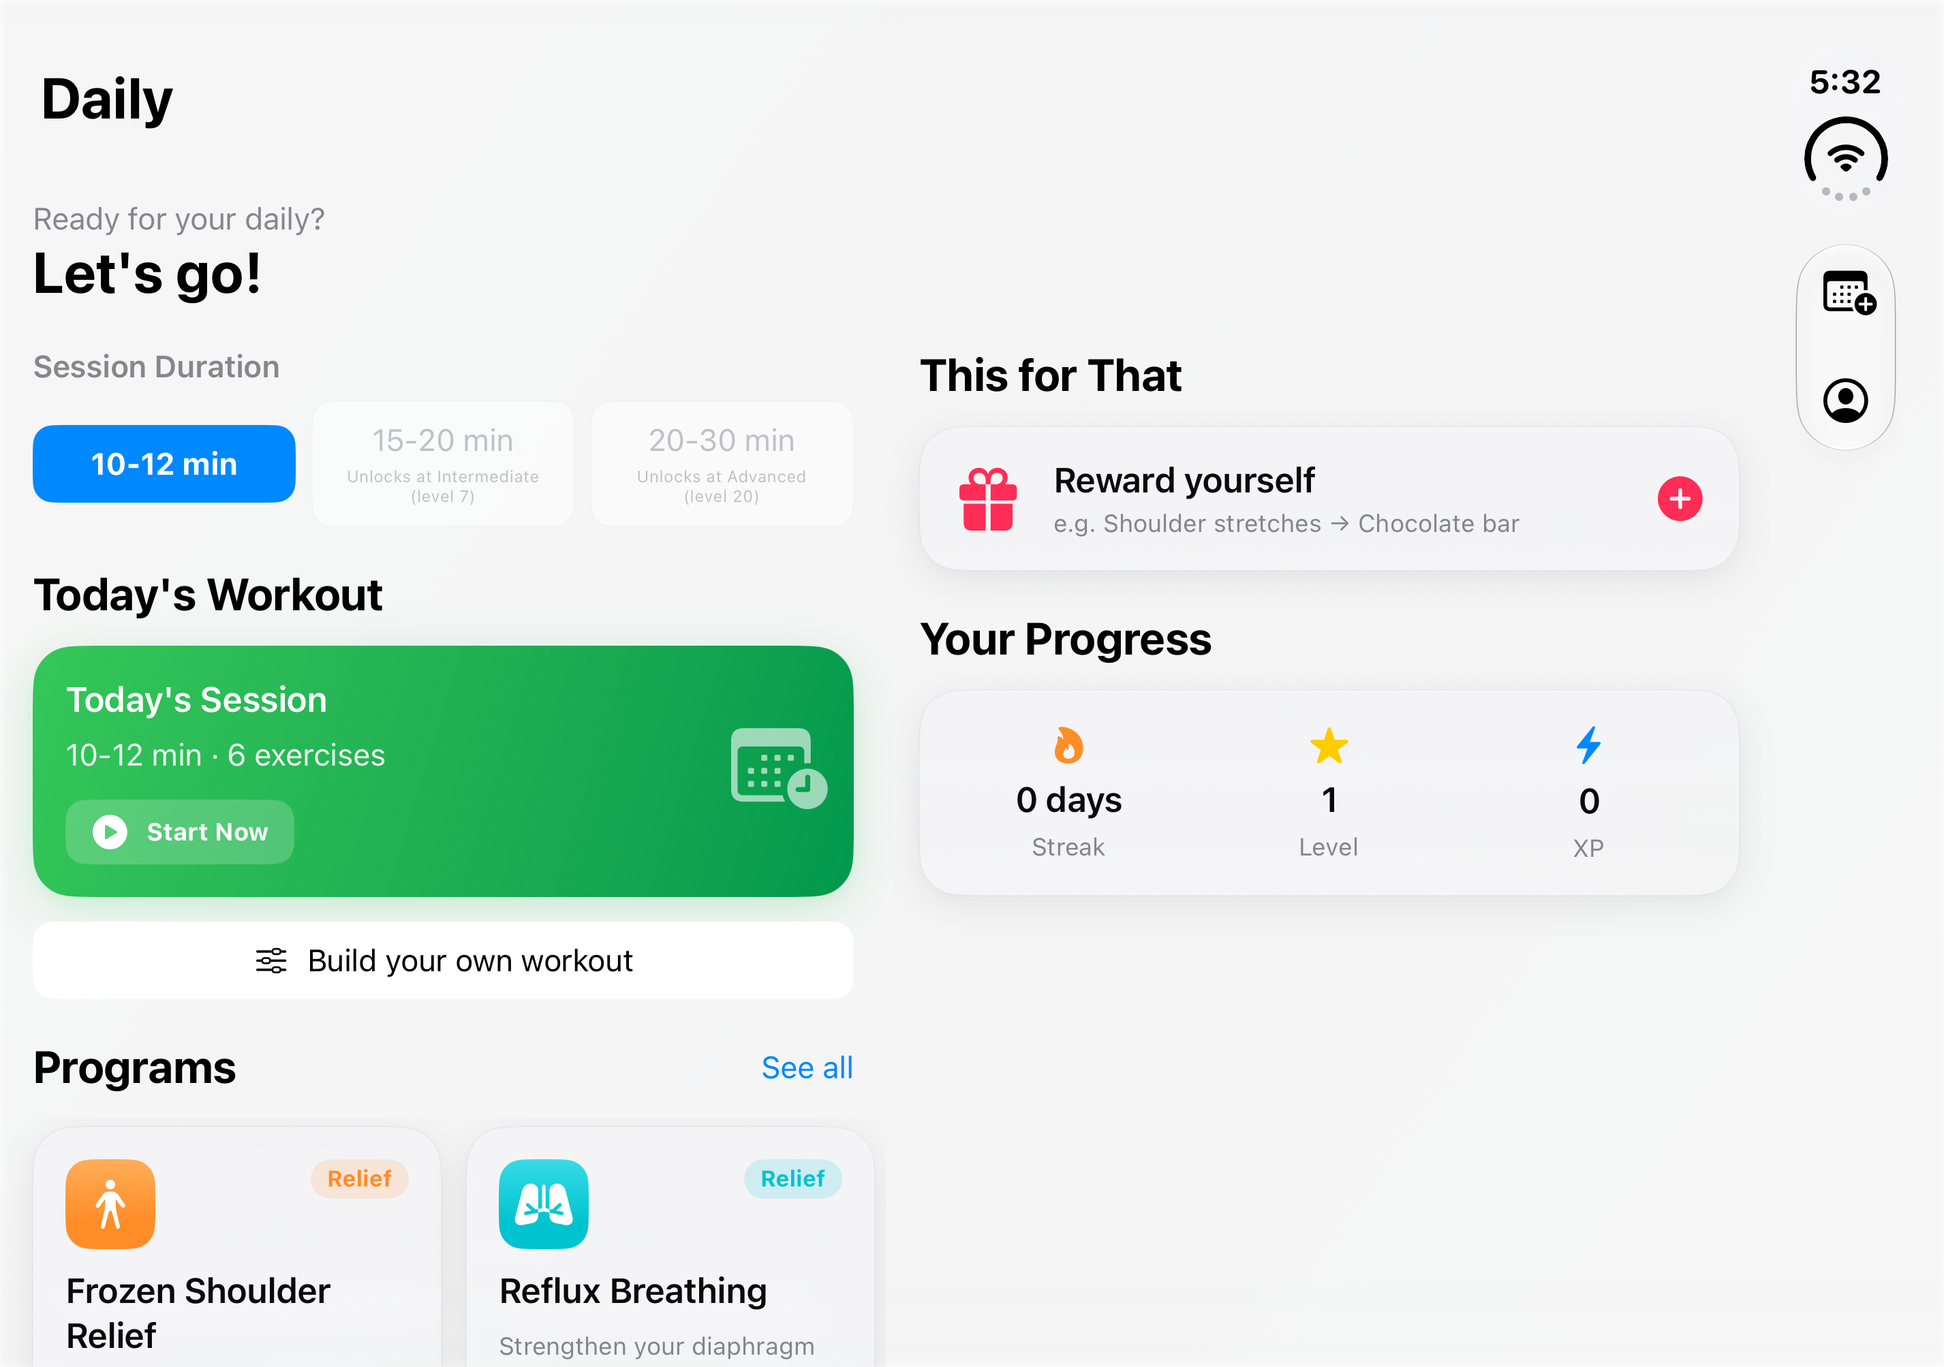
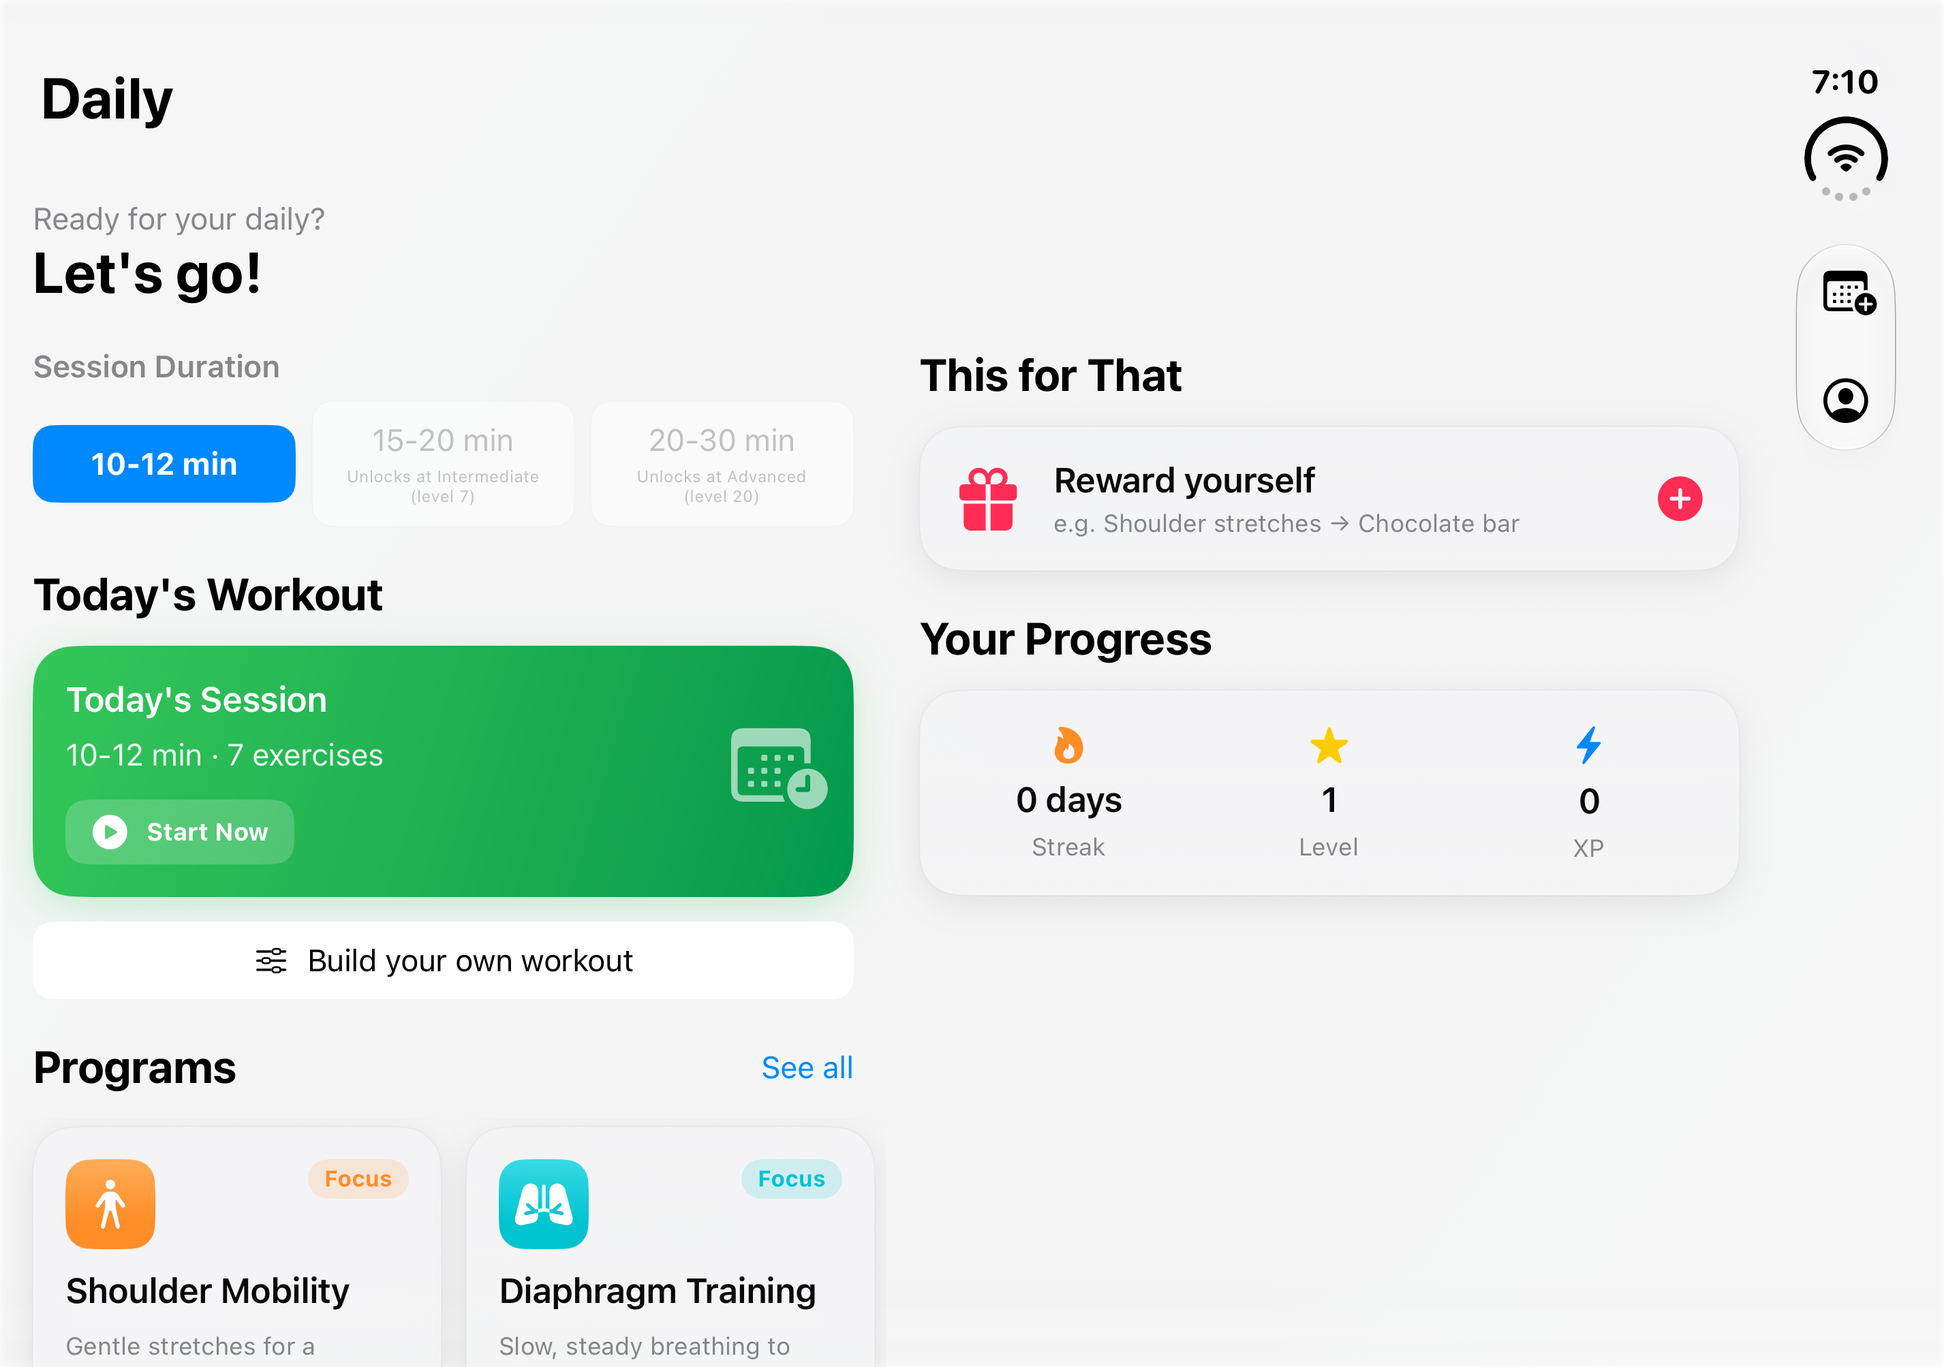
feat: add health disclaimer and soften focus program names
Shows a not-medical-advice notice on onboarding, on focus-area programs and in
Profile, and adds a Health & Safety section to the support page. Renames
Frozen Shoulder Relief, Reflux Breathing and Lower Back Relief to Shoulder
Mobility, Diaphragm Training and Lower Back Mobility (badge "Focus",
section "Focus areas"), drops condition names from their exercise
descriptions, and migrates existing installs and linked This for That pacts.
Refreshes the Duo screenshots.

diff --git a/daily/Models.swift b/daily/Models.swift
@@ -486,11 +486,37 @@ extension Exercise {
             context.insert(exercise)
         }
 
+        // 2b. Refresh focus-area exercise descriptions, which no longer name a condition
+        let focusDescriptions = Dictionary(
+            (frozenShoulderExercises() + refluxBreathingExercises()).map { ($0.name, $0.exerciseDescription) },
+            uniquingKeysWith: { first, _ in first }
+        )
+        for exercise in exercises {
+            if let description = focusDescriptions[exercise.name] { exercise.exerciseDescription = description }
+        }
+
         // 3. Apply contraindications to all exercises (idempotent — safe to re-run)
         let allExercises = exercises + newExercises.filter { !existingNames.contains($0.name) }
         applyContraindications(to: allExercises)
 
-        // 4. Insert new routines that don't already exist (checked by name)
+        // 4. Rename programs whose names were softened; pacts link to programs by name
+        if let existingRoutines = try? context.fetch(FetchDescriptor<Routine>()) {
+            let seeded = routines()
+            for routine in existingRoutines {
+                guard let newName = Routine.renamedPrograms[routine.name] else { continue }
+                routine.name = newName
+                if let description = seeded.first(where: { $0.name == newName })?.routineDescription {
+                    routine.routineDescription = description
+                }
+            }
+        }
+        if let pacts = try? context.fetch(FetchDescriptor<ThisForThat>()) {
+            for pact in pacts {
+                if let newName = Routine.renamedPrograms[pact.thisAction] { pact.thisAction = newName }
+            }
+        }
+
+        // 5. Insert new routines that don't already exist (checked by name)
         if let existingRoutines = try? context.fetch(FetchDescriptor<Routine>()) {
             let existingRoutineNames = Set(existingRoutines.map { $0.name })
             for routine in routines() where !existingRoutineNames.contains(routine.name) {
@@ -678,7 +704,7 @@ extension Exercise {
         [
             Exercise(
                 name: "Pendulum Swing",
-                exerciseDescription: "Frozen shoulder: gentle, gravity-assisted loosening.",
+                exerciseDescription: "Gentle, gravity-assisted loosening.",
                 durationSeconds: 90,
                 category: .stretching,
                 instructions: [
@@ -705,7 +731,7 @@ extension Exercise {
             ),
             Exercise(
                 name: "Finger Wall Walk",
-                exerciseDescription: "Frozen shoulder: rebuild overhead reach.",
+                exerciseDescription: "Rebuild overhead reach.",
                 durationSeconds: 90,
                 category: .stretching,
                 instructions: [
@@ -735,7 +761,7 @@ extension Exercise {
             ),
             Exercise(
                 name: "Cross-Body Arm Stretch",
-                exerciseDescription: "Frozen shoulder: ease tightness at the back of the shoulder.",
+                exerciseDescription: "Ease tightness at the back of the shoulder.",
                 durationSeconds: 60,
                 category: .stretching,
                 instructions: [
@@ -761,7 +787,7 @@ extension Exercise {
             ),
             Exercise(
                 name: "Towel Stretch",
-                exerciseDescription: "Frozen shoulder: improve reach behind your back.",
+                exerciseDescription: "Improve reach behind your back.",
                 durationSeconds: 90,
                 category: .stretching,
                 instructions: [
@@ -790,7 +816,7 @@ extension Exercise {
             ),
             Exercise(
                 name: "Outward Rotation Stretch",
-                exerciseDescription: "Frozen shoulder: restore outward turning of the arm.",
+                exerciseDescription: "Restore outward turning of the arm.",
                 durationSeconds: 60,
                 category: .stretching,
                 instructions: [
@@ -816,7 +842,7 @@ extension Exercise {
             ),
             Exercise(
                 name: "Armpit Stretch",
-                exerciseDescription: "Frozen shoulder: open the armpit and lift the arm.",
+                exerciseDescription: "Open the armpit and lift the arm.",
                 durationSeconds: 60,
                 category: .stretching,
                 instructions: [
@@ -850,7 +876,7 @@ extension Exercise {
         [
             Exercise(
                 name: "Diaphragm Breathing (Lying)",
-                exerciseDescription: "Reflux: learn to breathe with your diaphragm.",
+                exerciseDescription: "Learn to breathe with your diaphragm.",
                 durationSeconds: 300,
                 category: .breathing,
                 instructions: [
@@ -883,7 +909,7 @@ extension Exercise {
             ),
             Exercise(
                 name: "Seated Diaphragm Breathing",
-                exerciseDescription: "Reflux: upright belly breathing — fine after meals.",
+                exerciseDescription: "Upright belly breathing — fine after meals.",
                 durationSeconds: 300,
                 category: .breathing,
                 instructions: [
@@ -913,7 +939,7 @@ extension Exercise {
             ),
             Exercise(
                 name: "360° Rib Breathing",
-                exerciseDescription: "Reflux: expand the lower ribs to work the whole diaphragm.",
+                exerciseDescription: "Expand the lower ribs to work the whole diaphragm.",
                 durationSeconds: 180,
                 category: .breathing,
                 instructions: [
@@ -943,7 +969,7 @@ extension Exercise {
             ),
             Exercise(
                 name: "Weighted Belly Breathing",
-                exerciseDescription: "Reflux: strengthen the diaphragm against light resistance.",
+                exerciseDescription: "Strengthen the diaphragm against light resistance.",
                 durationSeconds: 300,
                 category: .breathing,
                 instructions: [
@@ -1350,10 +1376,10 @@ extension Exercise {
             Routine(name: "Upper Body Strength", routineDescription: "12 min arms, chest, and back.", exerciseNames: ["Push-ups", "Diamond Push-ups", "Triceps Dips", "Plank Shoulder Taps", "Superman Hold", "Arm Circles"]),
             Routine(name: "Gentle Morning", routineDescription: "10 min low-impact wake-up.", exerciseNames: ["Shoulder Rolls", "Neck Tilts", "Cat-Cow", "Side Reach Stretch", "Hamstring Stretch", "Belly Breathing"]),
 
-            // Targeted relief (008)
-            Routine(name: "Frozen Shoulder Relief", routineDescription: "Gentle stretches to free up a locked shoulder.", exerciseNames: ["Pendulum Swing", "Finger Wall Walk", "Cross-Body Arm Stretch", "Towel Stretch", "Outward Rotation Stretch", "Armpit Stretch"]),
-            Routine(name: "Reflux Breathing", routineDescription: "Strengthen your diaphragm to help with reflux.", exerciseNames: ["Seated Diaphragm Breathing", "360° Rib Breathing", "Diaphragm Breathing (Lying)", "Weighted Belly Breathing"]),
-            Routine(name: "Lower Back Relief", routineDescription: "Ease a stiff or sore lower back.", exerciseNames: ["Cat-Cow", "Seated Spinal Twist", "Bird Dog", "Child's Pose", "Figure-4 Stretch", "Belly Breathing"])
+            // Focus areas (008)
+            Routine(name: "Shoulder Mobility", routineDescription: "Gentle stretches for a stiff shoulder.", exerciseNames: ["Pendulum Swing", "Finger Wall Walk", "Cross-Body Arm Stretch", "Towel Stretch", "Outward Rotation Stretch", "Armpit Stretch"]),
+            Routine(name: "Diaphragm Training", routineDescription: "Slow, steady breathing to strengthen your diaphragm.", exerciseNames: ["Seated Diaphragm Breathing", "360° Rib Breathing", "Diaphragm Breathing (Lying)", "Weighted Belly Breathing"]),
+            Routine(name: "Lower Back Mobility", routineDescription: "Gentle movement for a stiff lower back.", exerciseNames: ["Cat-Cow", "Seated Spinal Twist", "Bird Dog", "Child's Pose", "Figure-4 Stretch", "Belly Breathing"])
         ]
     }
 }

diff --git a/daily/ProgramsView.swift b/daily/ProgramsView.swift
@@ -4,12 +4,12 @@ import SwiftData
 // MARK: - Program Presentation
 
 /// Display metadata for seeded routines, shown to the user as "Programs".
-/// Targeted-relief programs are listed first; unknown routines fall back to a generic style.
+/// Focus-area programs are listed first; unknown routines fall back to a generic style.
 extension Routine {
     private static let styles: [String: (icon: String, color: Color)] = [
-        "Frozen Shoulder Relief": ("figure.arms.open", .orange),
-        "Reflux Breathing":       ("lungs.fill", .teal),
-        "Lower Back Relief":      ("figure.flexibility", .indigo),
+        "Shoulder Mobility":      ("figure.arms.open", .orange),
+        "Diaphragm Training":     ("lungs.fill", .teal),
+        "Lower Back Mobility":    ("figure.flexibility", .indigo),
         "Morning Wake-Up":        ("sunrise.fill", .yellow),
         "Gentle Morning":         ("sun.horizon.fill", .yellow),
         "Desk Break":             ("desktopcomputer", .blue),
@@ -24,11 +24,18 @@ extension Routine {
         "Power Circuit":          ("bolt.heart.fill", .pink),
     ]
 
-    static let reliefProgramNames = ["Frozen Shoulder Relief", "Reflux Breathing", "Lower Back Relief"]
+    static let focusProgramNames = ["Shoulder Mobility", "Diaphragm Training", "Lower Back Mobility"]
+
+    /// Earlier names of the focus-area programs, renamed on existing installs by `Exercise.seedInitialData`.
+    static let renamedPrograms = [
+        "Frozen Shoulder Relief": "Shoulder Mobility",
+        "Reflux Breathing": "Diaphragm Training",
+        "Lower Back Relief": "Lower Back Mobility",
+    ]
 
     var programIcon: String { Self.styles[name]?.icon ?? "list.bullet.rectangle" }
     var programColor: Color { Self.styles[name]?.color ?? .blue }
-    var isReliefProgram: Bool { Self.reliefProgramNames.contains(name) }
+    var isFocusProgram: Bool { Self.focusProgramNames.contains(name) }
 
     /// The exercises this routine will actually run for the given profile (matches RoutineDetailView).
     func programExercises(from allExercises: [Exercise], profile: UserProfile?) -> [Exercise] {
@@ -37,11 +44,11 @@ extension Routine {
         }
     }
 
-    /// Relief programs first (in their defined order), then the rest alphabetically.
+    /// Focus-area programs first (in their defined order), then the rest alphabetically.
     static func sortedForDisplay(_ routines: [Routine]) -> [Routine] {
         routines.sorted { a, b in
-            let ia = reliefProgramNames.firstIndex(of: a.name) ?? Int.max
-            let ib = reliefProgramNames.firstIndex(of: b.name) ?? Int.max
+            let ia = focusProgramNames.firstIndex(of: a.name) ?? Int.max
+            let ib = focusProgramNames.firstIndex(of: b.name) ?? Int.max
             return ia != ib ? ia < ib : a.name < b.name
         }
     }
@@ -118,8 +125,8 @@ struct ProgramCard: View {
                     .background(routine.programColor.gradient)
                     .clipShape(RoundedRectangle(cornerRadius: 12, style: .continuous))
                 Spacer()
-                if routine.isReliefProgram {
-                    Text("Relief")
+                if routine.isFocusProgram {
+                    Text("Focus")
                         .font(.caption2)
                         .fontWeight(.bold)
                         .foregroundStyle(routine.programColor)
@@ -209,8 +216,8 @@ struct ProgramsListView: View {
 
     @ViewBuilder
     private var sections: some View {
-        section("Targeted relief", routines: sorted.filter(\.isReliefProgram))
-        section("Workouts & routines", routines: sorted.filter { !$0.isReliefProgram })
+        section("Focus areas", routines: sorted.filter(\.isFocusProgram))
+        section("Workouts & routines", routines: sorted.filter { !$0.isFocusProgram })
     }
 
     private func detail(for routine: Routine) -> RoutineDetailView {
@@ -287,7 +294,7 @@ struct ProgramRow: View {
 #Preview("Program Row") {
     List {
         ProgramRow(
-            routine: Routine(name: "Frozen Shoulder Relief", routineDescription: "Gentle mobility for a stiff shoulder", exerciseNames: []),
+            routine: Routine(name: "Shoulder Mobility", routineDescription: "Gentle stretches for a stiff shoulder", exerciseNames: []),
             allExercises: [],
             profile: nil
         )

diff --git a/daily/HealthDisclaimer.swift b/daily/HealthDisclaimer.swift
@@ -1,0 +1,39 @@
+import SwiftUI
+
+// MARK: - Health Disclaimer
+
+/// The app's health and safety wording, kept in one place so onboarding, programs, the
+/// profile and the support page (docs/support.html) say the same thing.
+enum HealthDisclaimer {
+    static let full = "Move Daily offers general exercise and wellbeing guidance and is not medical advice. Check with your doctor or physiotherapist before starting a new exercise routine, especially if you have an injury, a medical condition or are pregnant. Stop any exercise that causes pain, dizziness or shortness of breath."
+
+    static let short = "General exercise guidance, not medical advice. Check with your doctor or physiotherapist before starting, and stop if anything causes pain."
+
+    static let focusProgram = "These exercises may help ease symptoms but don't treat the condition. Check with your doctor or physiotherapist first, and see them if symptoms persist or get worse."
+}
+
+/// A small, quiet notice: an info icon beside secondary caption text.
+struct HealthNotice: View {
+    let text: String
+
+    var body: some View {
+        Label {
+            Text(text)
+                .fixedSize(horizontal: false, vertical: true)
+        } icon: {
+            Image(systemName: "stethoscope")
+        }
+        .font(.caption)
+        .foregroundStyle(.secondary)
+        .frame(maxWidth: .infinity, alignment: .leading)
+    }
+}
+
+#Preview("Health Notice") {
+    VStack(spacing: 20) {
+        HealthNotice(text: HealthDisclaimer.short)
+        HealthNotice(text: HealthDisclaimer.focusProgram)
+        HealthNotice(text: HealthDisclaimer.full)
+    }
+    .padding()
+}

diff --git a/docs/support.html b/docs/support.html
@@ -190,6 +190,19 @@
       <p>Move Daily helps you build a short daily movement habit with stretching, breathing, bodyweight, and balance exercises — all voice-guided, no equipment needed, and no internet required. Everything runs on your device.</p>
     </div>
 
+    <div class="faq" id="health-and-safety">
+      <h2>Health &amp; Safety</h2>
+
+      <div class="faq-item">
+        <p>Move Daily offers general exercise and wellbeing guidance and is not medical advice. Check with your doctor or physiotherapist before starting a new exercise routine, especially if you have an injury, a medical condition or are pregnant. Stop any exercise that causes pain, dizziness or shortness of breath.</p>
+      </div>
+
+      <div class="faq-item">
+        <h3>What about the Focus area programs?</h3>
+        <p>Programs such as Shoulder Mobility, Diaphragm Training and Lower Back Mobility are gentle routines that may help ease symptoms, but they don't diagnose or treat any condition. Check with your doctor or physiotherapist first, and see them if symptoms persist or get worse.</p>
+      </div>
+    </div>
+
     <div class="faq">
       <h2>Frequently Asked Questions</h2>
 

diff --git a/daily/OnboardingView.swift b/daily/OnboardingView.swift
@@ -64,8 +64,14 @@ struct OnboardingView: View {
                 .font(.subheadline)
                 .foregroundStyle(.secondary)
                 .padding(.top, 4)
+
+                Text(HealthDisclaimer.short)
+                    .font(.caption)
+                    .foregroundStyle(.secondary)
+                    .multilineTextAlignment(.center)
+                    .padding(.top, 8)
             }
-            .padding(.bottom, 48)
+            .padding(.bottom, 32)
         }
         .padding(.horizontal, DesignTokens.cardPadding)
     }

diff --git a/daily/RoutineDetailView.swift b/daily/RoutineDetailView.swift
@@ -153,6 +153,10 @@ struct RoutineDetailView: View {
                     .foregroundStyle(.blue)
                     .padding(.top, 2)
             }
+            if routine.isFocusProgram {
+                HealthNotice(text: HealthDisclaimer.focusProgram)
+                    .padding(.top, 6)
+            }
         }
         .frame(maxWidth: .infinity, alignment: .leading)
         .padding(DesignTokens.cardPadding)

diff --git a/daily/ProfileView.swift b/daily/ProfileView.swift
@@ -175,6 +175,10 @@ struct ProfileView: View {
                     }
                 }
             }
+
+            Divider()
+
+            HealthNotice(text: HealthDisclaimer.full)
         }
         .padding(DesignTokens.cardPadding)
         .cardStyle()

diff --git a/docs/screenshots/duo/README.md b/docs/screenshots/duo/README.md
@@ -1,11 +1,11 @@
 # iPhone Duo screenshots
 
 Captured on the iPhone Duo simulator (iOS 27.1). The unfolded inner screen is 951×669 pt
-(2853×2007 px); the folded cover screen is 466×678 pt (1398×2034 px).
+(2853×2007 px). The folded cover screen (466×678 pt, 1398×2034 px) uses the same layout as
+any iPhone.
 
 | File | Screen |
 | --- | --- |
-| `00-dashboard-folded.png` | Dashboard on the cover screen (same layout as any iPhone) |
 | `01-dashboard-unfolded.png` | Dashboard, two columns |
 | `02-program-unfolded.png` | Program: exercise list beside "Up next" |
 | `03-exercise-timer-unfolded.png` | Exercise timer beside instructions |
